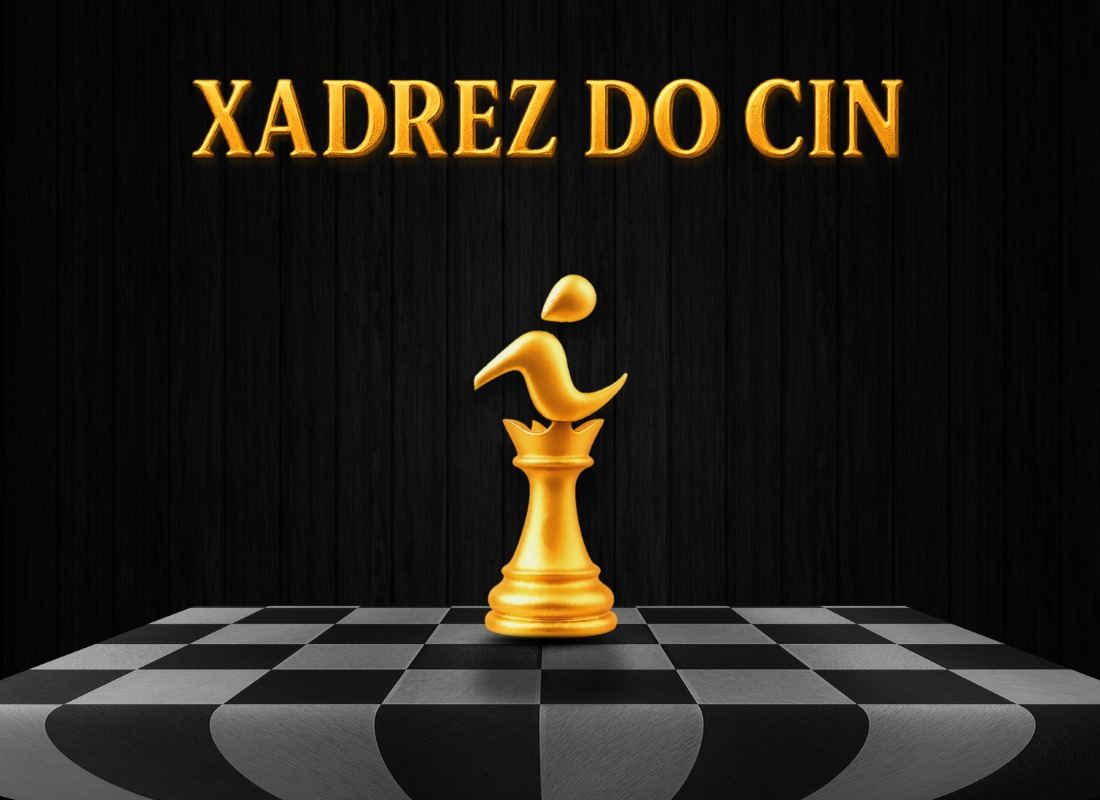
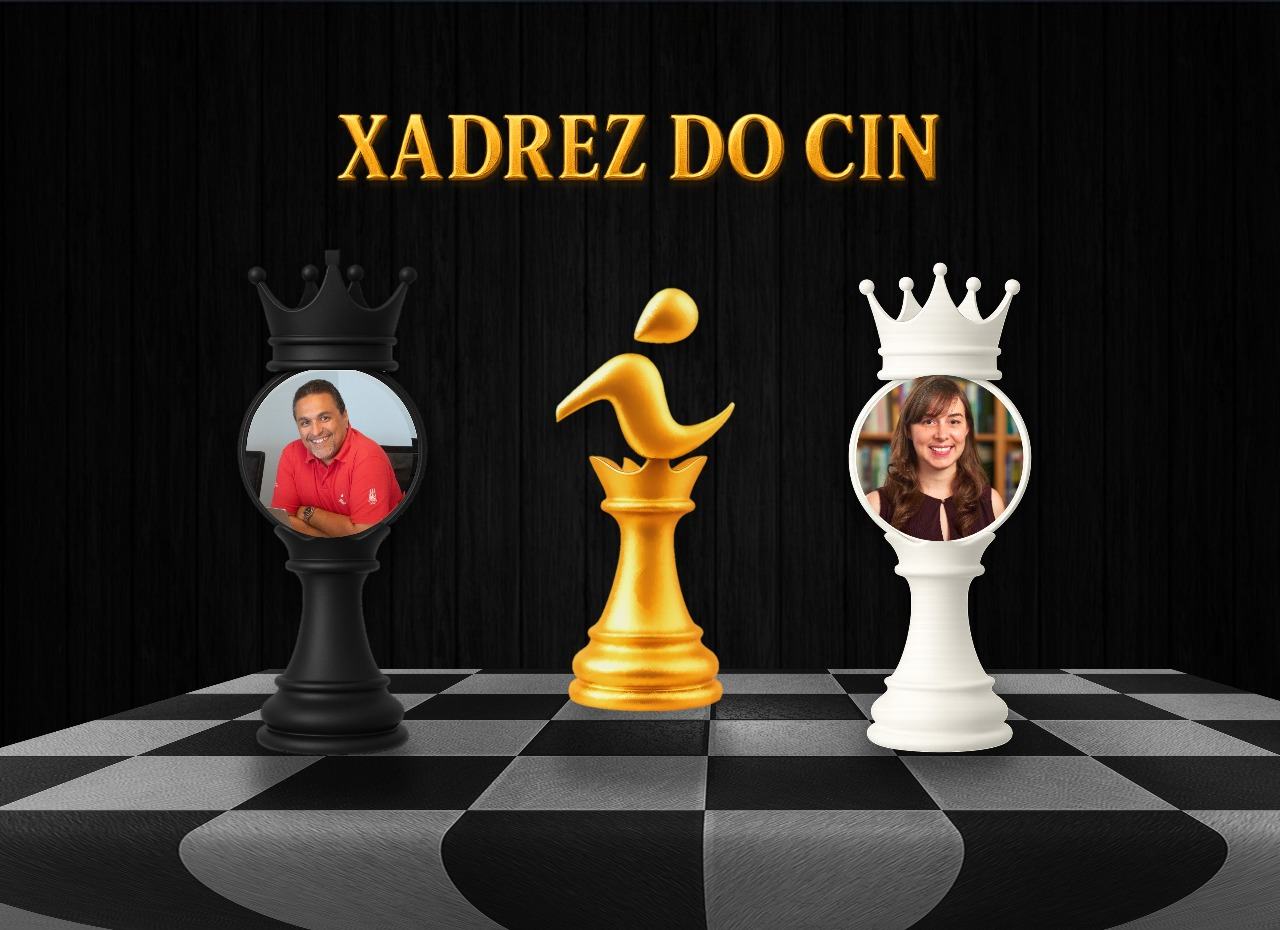
Atualizando capa do menu e colocando imagem de Sérgio na sidebar.

Changed region(s): [[0.0, 0.25, 1.0, 1.0], [0.1545, 0.0938, 0.8345, 0.2188]]

diff --git a/funcoes_do_jogo.py b/funcoes_do_jogo.py
@@ -29,7 +29,7 @@ def _init_tela():
     y_proporcional = (cfg.tam_tela_y * x_proporcional) / cfg.tam_tela_x
 
     # Cria a janela com o tamanho ajustado.
-    tela = pygame.display.set_mode((x_proporcional, y_proporcional), pygame.RESIZABLE)
+    tela = pygame.display.set_mode((x_proporcional, y_proporcional))
 
     pygame.display.set_caption(cfg.str_janela_menu) #Define título do menu.
 
@@ -582,12 +582,15 @@ def desenhar_menu(tela, capa_menu, jogar, pos_jogar, txt_menu, pos_txt_menu):
     tela.blit(txt_menu, pos_txt_menu)
 
 #Função para fazer os desenhos da tela do xadrez.
-def desenhar_xadrez(tela, tabuleiro, info_peças):
+def desenhar_xadrez(tela, tabuleiro, img_sidebar, info_peças):
 
-    #Pinta-se o fundo da tela de roxo, eliminando objetos antigos.
-    tela.fill('blue')
+    #Pinta-se o fundo da tela de preto, eliminando objetos antigos.
+    tela.fill((0, 0, 0))
 
     #Desenha-se as coisas na tela.
+
+    #Desenha-se Sérgio.
+    tela.blit(img_sidebar, (tabuleiro.get_size()[0], 0))
 
     #Desenha-se o tabuleiro.
     tela.blit(tabuleiro, (0, 0))

diff --git a/main.py b/main.py
@@ -82,6 +82,12 @@ tam_real_sidebar = torre_branca_pequena.get_size()[0]
 capa_menu = pygame.image.load('imagens/capa_menu.jpeg')
 capa_menu = pygame.transform.scale(capa_menu, (tela_x, tela_y))
 
+#Importando a imagem da sidebar.
+img_sidebar = pygame.image.load('imagens/imagem_sidebar.png')
+x_img_sidebar = tela_x - tam_tabuleiro
+y_img_sidebar = tela_y
+img_sidebar = pygame.transform.scale(img_sidebar, (x_img_sidebar, y_img_sidebar))
+
 #Sobre a sidebar (Contadores).
 
 #Inicializa a posição das peças brancas capturadas na sidebar e insere elas em uma lista, assim como os textos correspondentes às capturas. 
@@ -200,7 +206,7 @@ while usr_jogando:
     elif 'xadrez' in tela_atual:
 
         #Desenha-se a tela do xadrez com as peças e todo o resto.
-        fj.desenhar_xadrez(tela, tabuleiro, info_peças)
+        fj.desenhar_xadrez(tela, tabuleiro, img_sidebar, info_peças)
 
         #Desenha-se a sidebar do xadrez, no que se diz respeito aos contadoress.
         fj.desenhar_sidebar_contagem(tela, sidebar_contagem)

diff --git a/configuracoes.py b/configuracoes.py
@@ -7,7 +7,7 @@ tam_tela = tam_tela_x, tam_tela_y = 1100, 800
 #Sobre a tela principal (Menu).
 
 #Nome da janela.
-str_janela_menu = 'Chess CIn'
+str_janela_menu = 'Xadrez do CIn'
 
 #Sobre o título do Menu.
 str_fonte_menu = 'Ubuntu' #Uma string com o nome da fonte do título.
@@ -62,7 +62,7 @@ tam_x_txt_sidebar = 90
 tam_y_txt_sidebar = 54
 distancia_peça_texto = 5
 str_fonte_sidebar = 'Ubuntu'
-cor_txt_sidebar = (0, 0, 0)
+cor_txt_sidebar = (0, 255, 0)
 distancia_tabuleiro = 20 #Distância das peças com relação ao tabuleiro, segundo o eixo horizontal.
 distancia_peças = 10 #Distância das peças entre si, segundo o eixo vertical.
 
